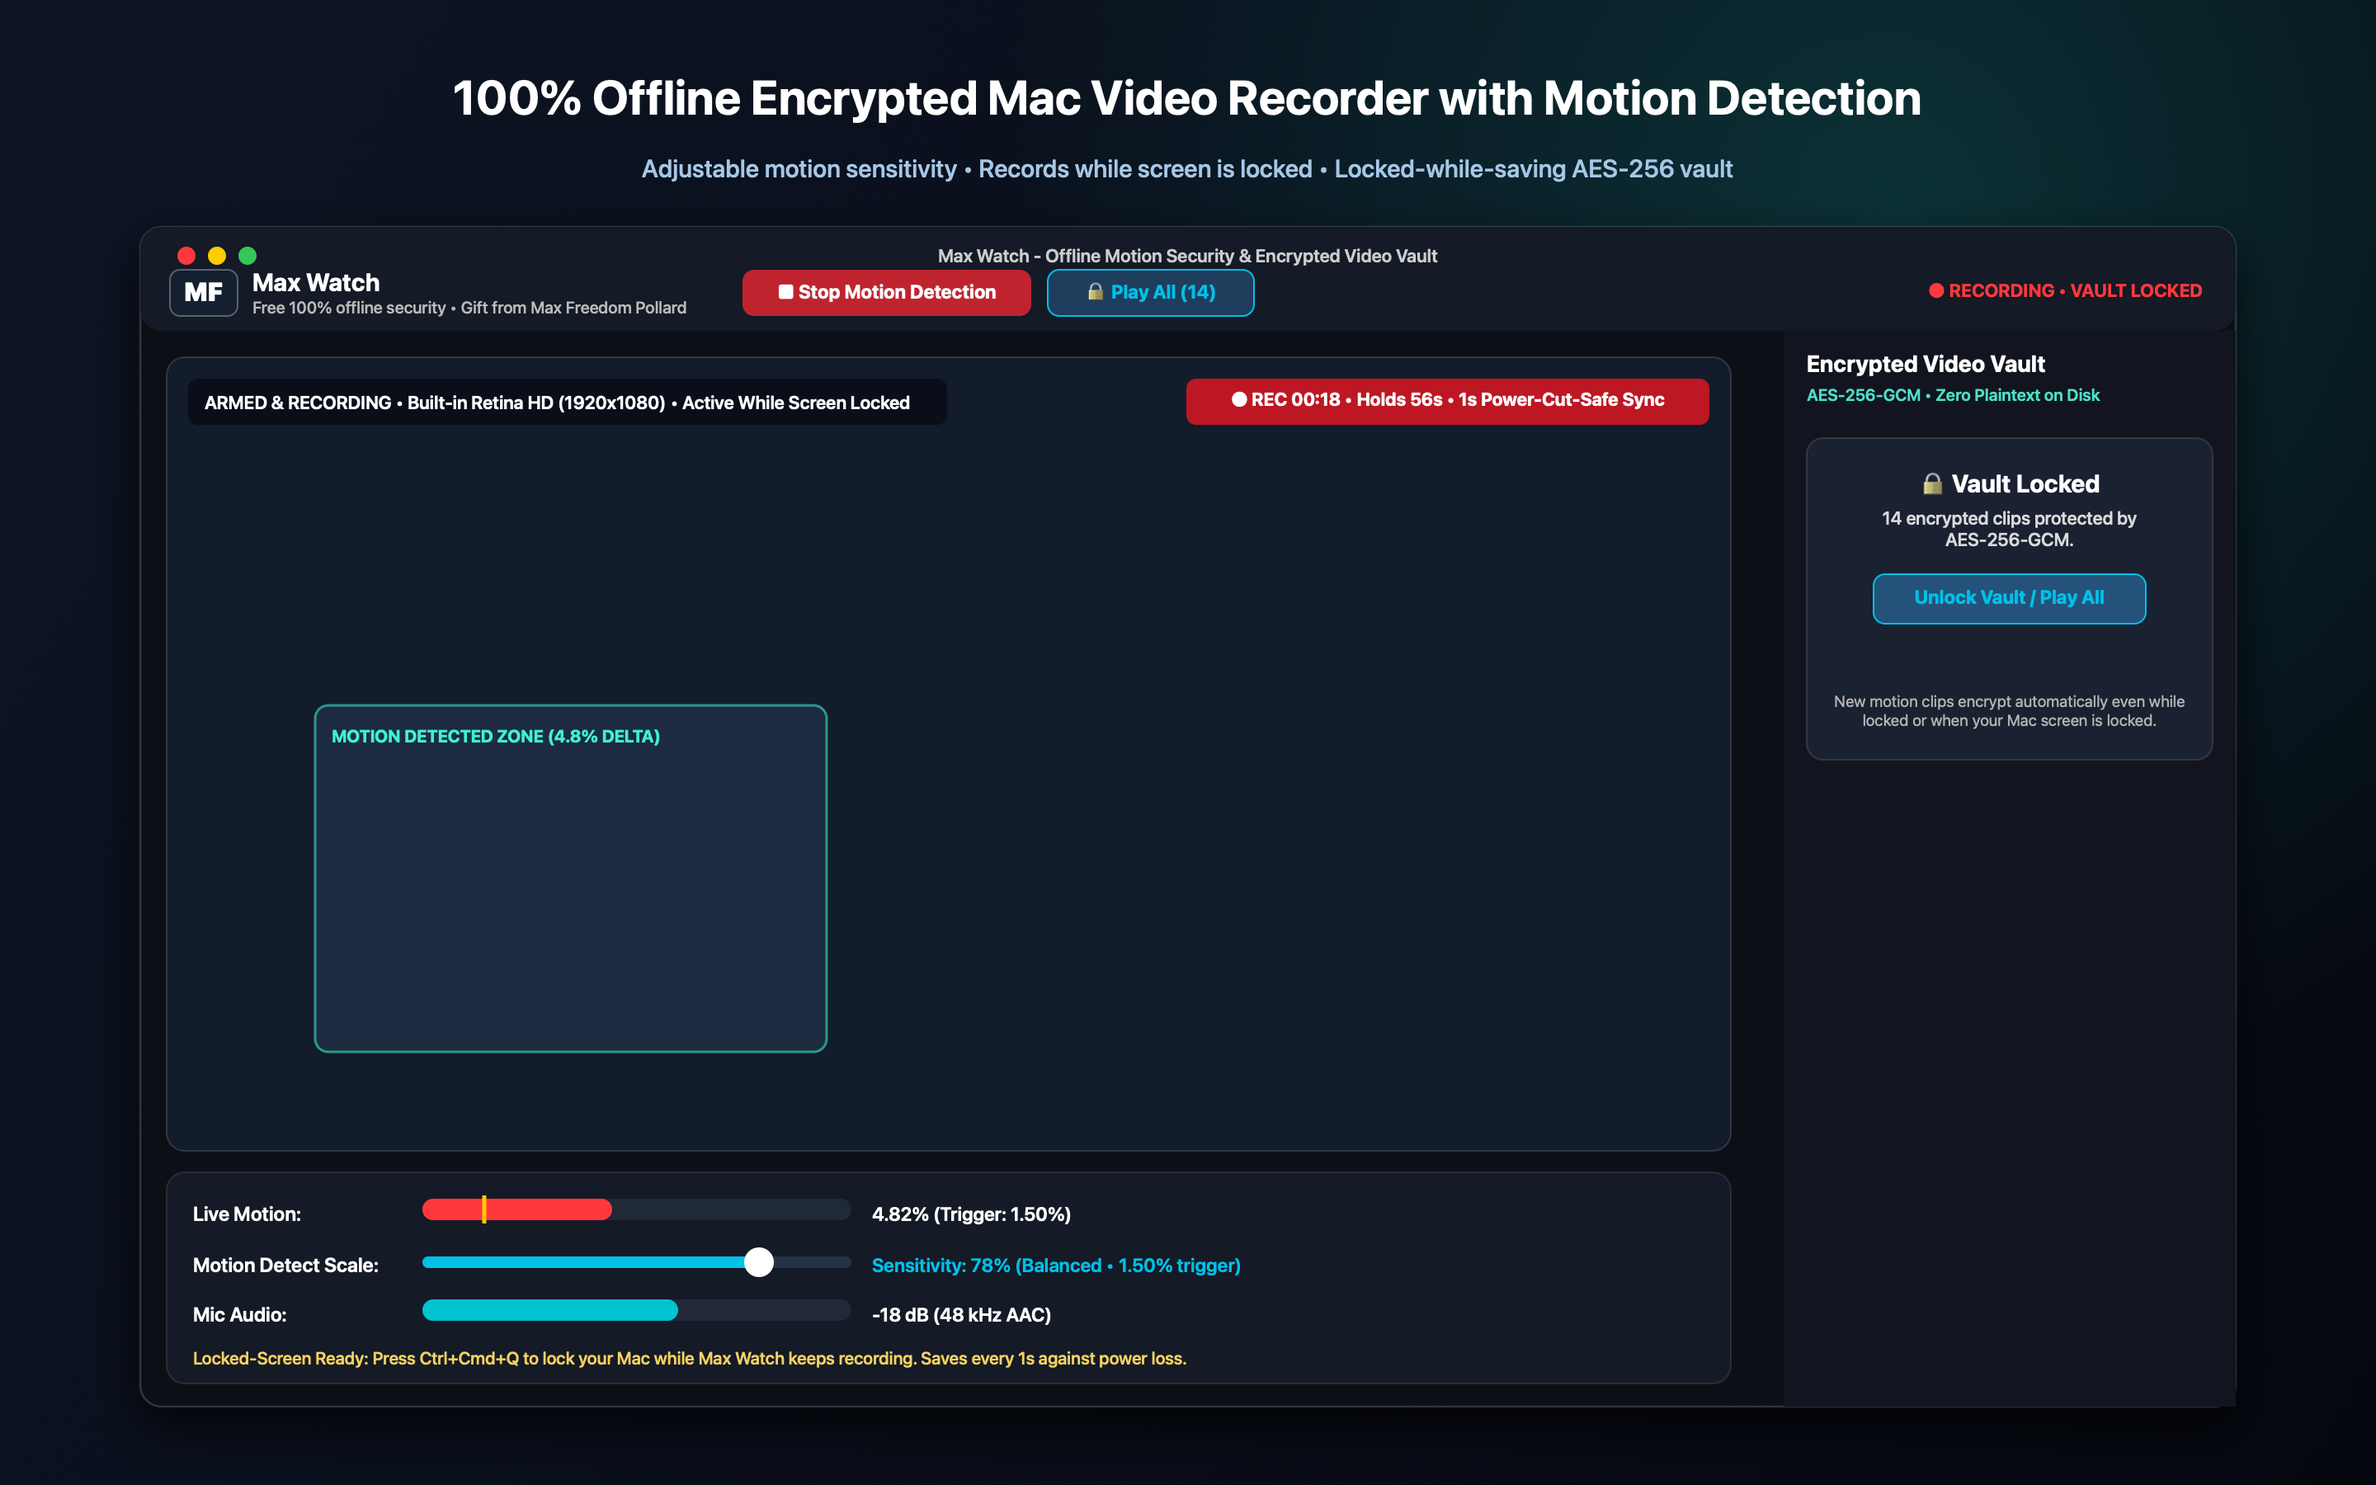
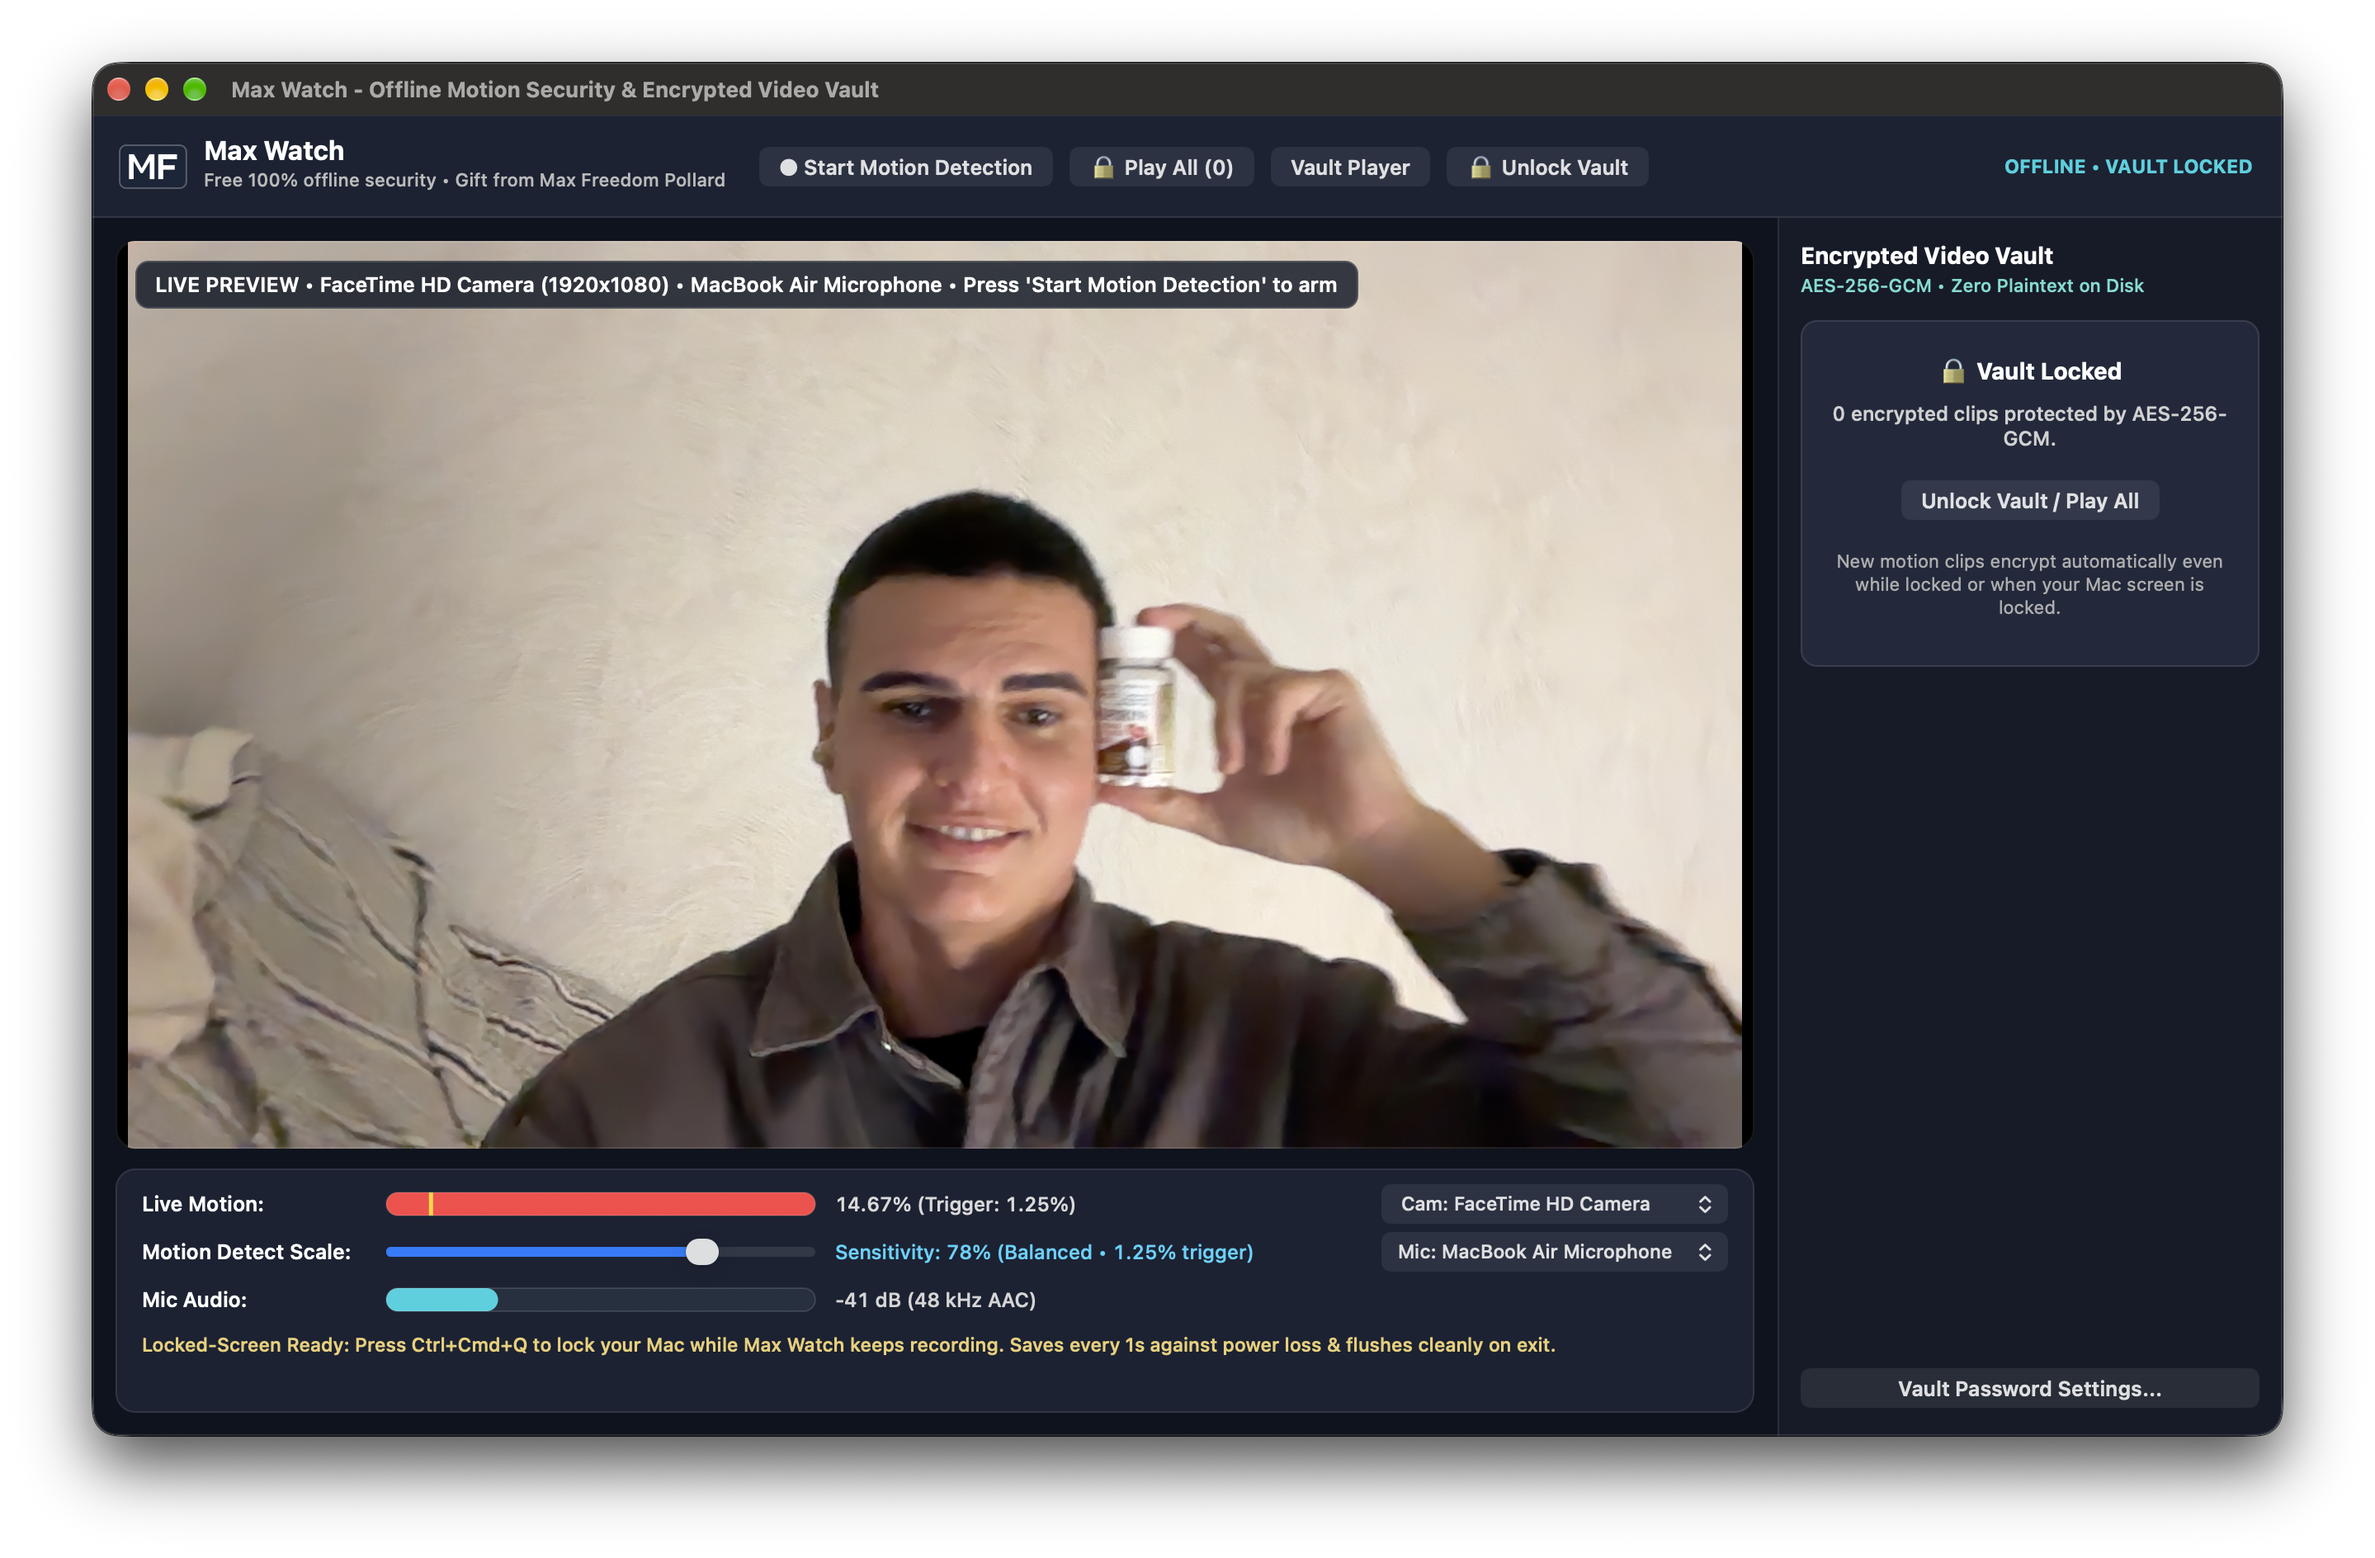
Replace README screenshot with real live macOS app capture

diff --git a/README.md b/README.md
@@ -34,8 +34,7 @@ brew tap maxfreedompollard/tap
 brew install --cask max-watch
 ```
 
-![Max Watch Live Motion Detection & Locked AES-256 Vault](https://maxfreedompollard.github.io/Max-Watch/assets/01_live_motion_studio.png)
-![Max Watch Fast Scrubber Ball, Save & Next, Delete & Next, and 12x Playback](https://maxfreedompollard.github.io/Max-Watch/assets/02_fast_ball_scrubber_12x.png)
+![Max Watch Live Motion Detection & Locked AES-256 Vault](./docs/assets/01_live_motion_studio.png)
 
 ---
 
